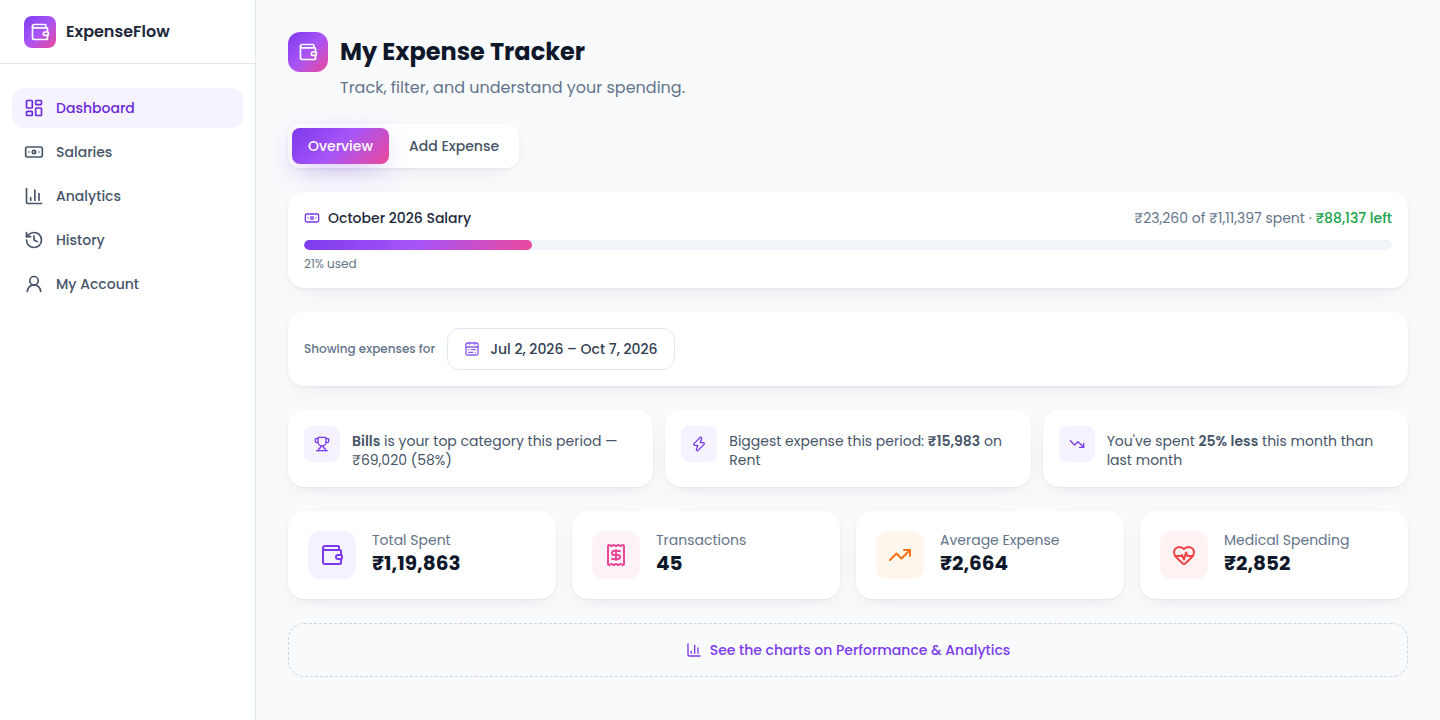
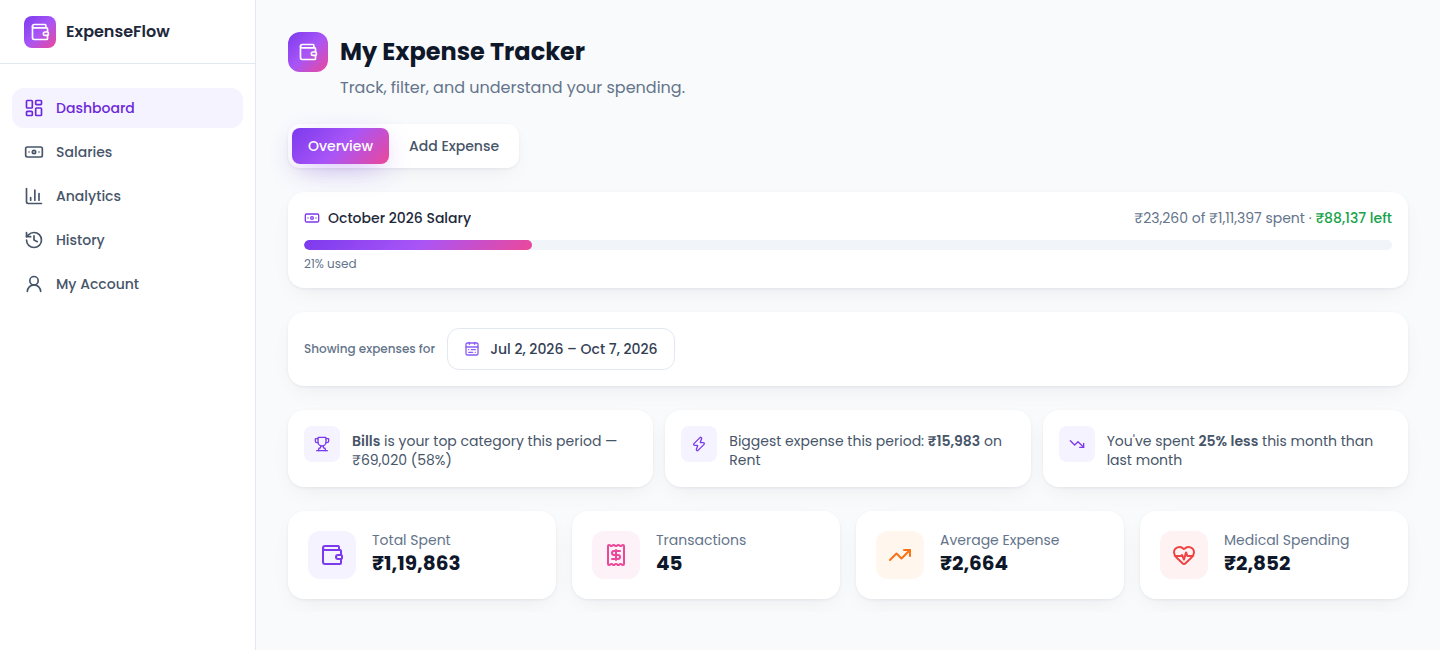
Remove charts link from dashboard

diff --git a/frontend/src/pages/Dashboard.jsx b/frontend/src/pages/Dashboard.jsx
@@ -1,6 +1,6 @@
 import { useEffect, useMemo, useState } from "react";
 import { Link } from "react-router-dom";
-import { Wallet, Receipt, TrendingUp, TrendingDown, HeartPulse, Plus, Trophy, Zap, Banknote, ChartColumn } from "lucide-react";
+import { Wallet, Receipt, TrendingUp, TrendingDown, HeartPulse, Plus, Trophy, Zap, Banknote } from "lucide-react";
 import toast from "react-hot-toast";
 import { useAuth } from "../context/AuthContext";
 import { api } from "../api";
@@ -274,18 +274,10 @@ export default function Dashboard() {
             <StatCard icon={HeartPulse} label="Medical Spending" value={currency(medical)} accent={{ bg: "#fef2f2", fg: "#ef4444" }} />
           </div>
 
-          {!dateFiltered.length ? (
+          {!dateFiltered.length && (
             <div className="bg-white dark:bg-slate-900 rounded-2xl shadow-card p-12 text-center text-slate-400">
               No expenses match your current filters. Add one from the "Add Expense" tab.
             </div>
-          ) : (
-            <Link
-              to="/analytics"
-              className="flex items-center justify-center gap-2 rounded-2xl border border-dashed border-slate-300 dark:border-slate-700 p-4 text-sm font-medium text-brand-600 dark:text-brand-400 hover:bg-white dark:hover:bg-slate-900 transition"
-            >
-              <ChartColumn className="w-4 h-4" />
-              See the charts on Performance & Analytics
-            </Link>
           )}
         </div>
       )}
